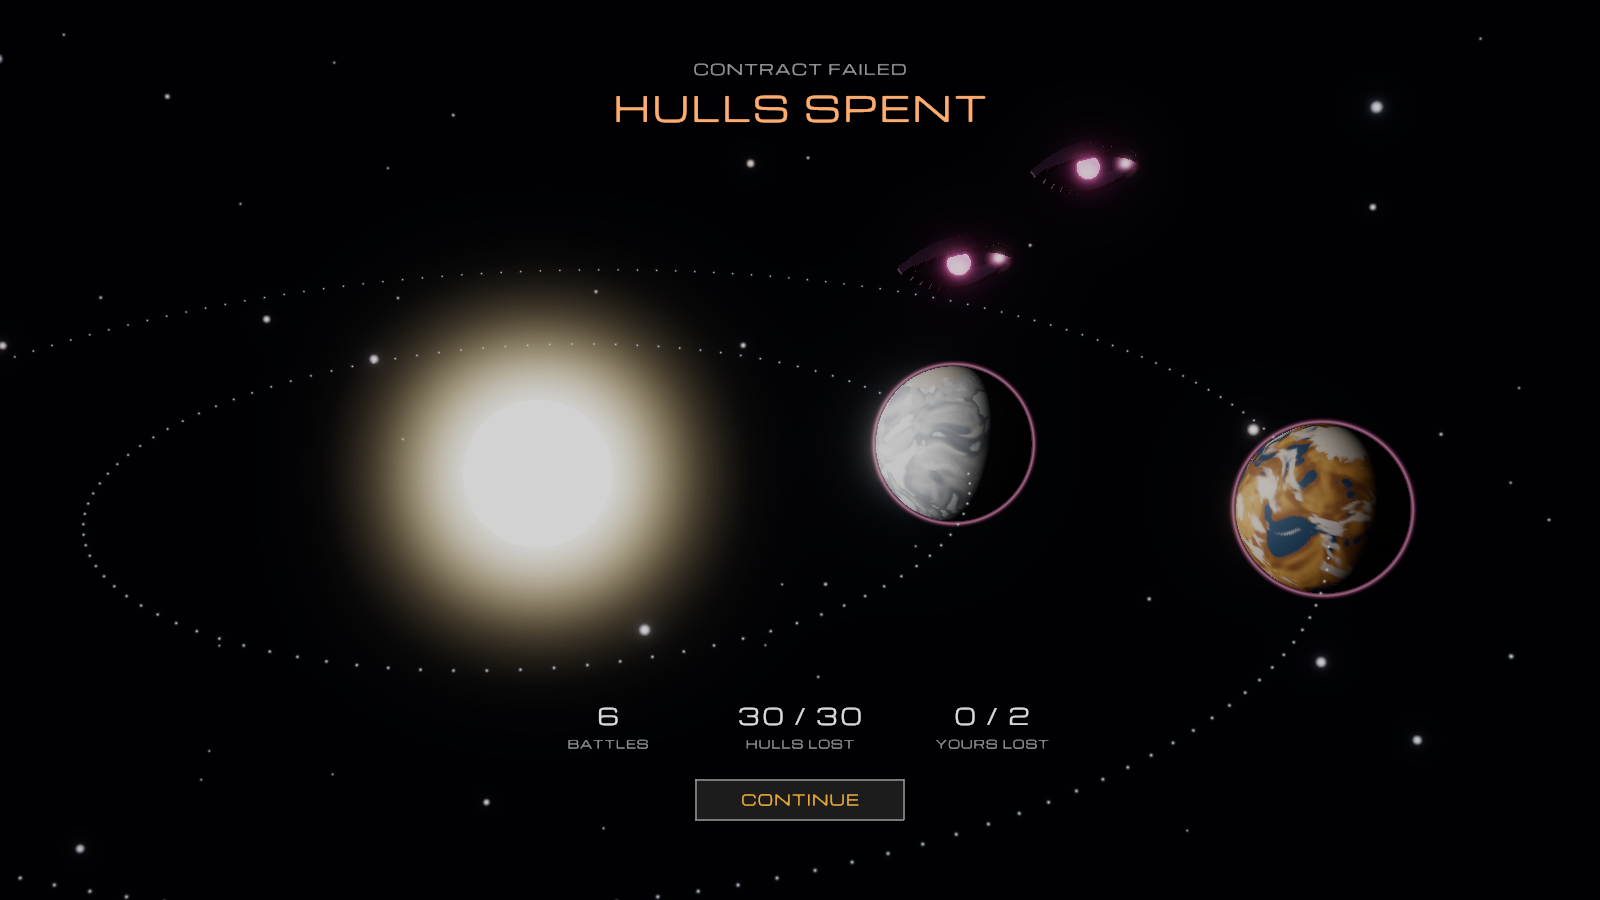
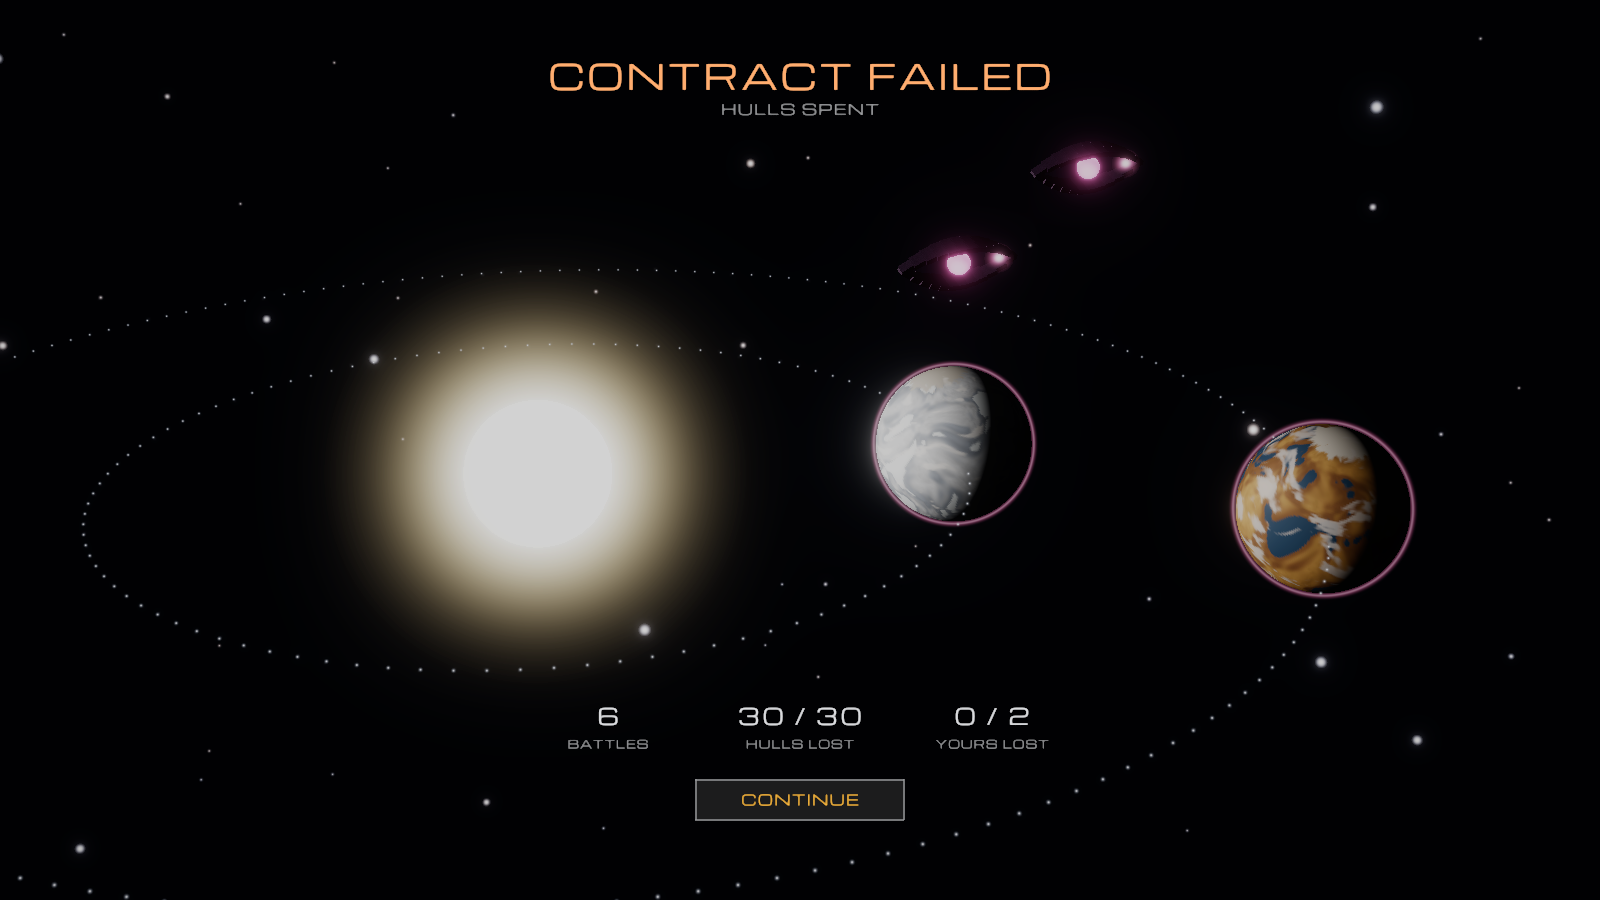
Contract summary: that it failed, then why
Claude-Session: https://claude.ai/code/session_01MEmTqFXsPKRSwTWA17Ss4y

Changed region(s): [[0.3438, 0.0622, 0.6562, 0.1556]]

diff --git a/src/theater_view.rs b/src/theater_view.rs
@@ -1329,14 +1329,11 @@ pub fn summary(
         theme::HOT
     };
     let mut y = UNIT * 8.0;
-    p.text(
-        Vec2::new(mid, y),
-        head,
-        &BODY.colored(TEXT_2),
-        Align::Center,
-    );
-    y += UNIT * 4.0;
-    p.text(Vec2::new(mid, y), &how, &TITLE.colored(tone), Align::Center);
+    let style = TITLE.colored(tone);
+    p.text(Vec2::new(mid, y), head, &style, Align::Center);
+    y += UNIT * 5.0;
+    let style = BODY.colored(TEXT_2);
+    p.text(Vec2::new(mid, y), &how, &style, Align::Center);
     // What it cost, and the way on, under the system.
     y = h - UNIT * 24.0;
     let battles = e.tick.saturating_sub(e.signed).max(1).to_string();

diff --git a/src/menu.rs b/src/menu.rs
@@ -1523,7 +1523,6 @@ fn fade(mut v: Vec<UiVertex>, alpha: f32) -> Vec<UiVertex> {
 mod tests {
     use super::*;
     use crate::faction::Faction;
-    use crate::galaxy::theater::system_name;
 
     #[test]
     fn main_menu_navigation() {
